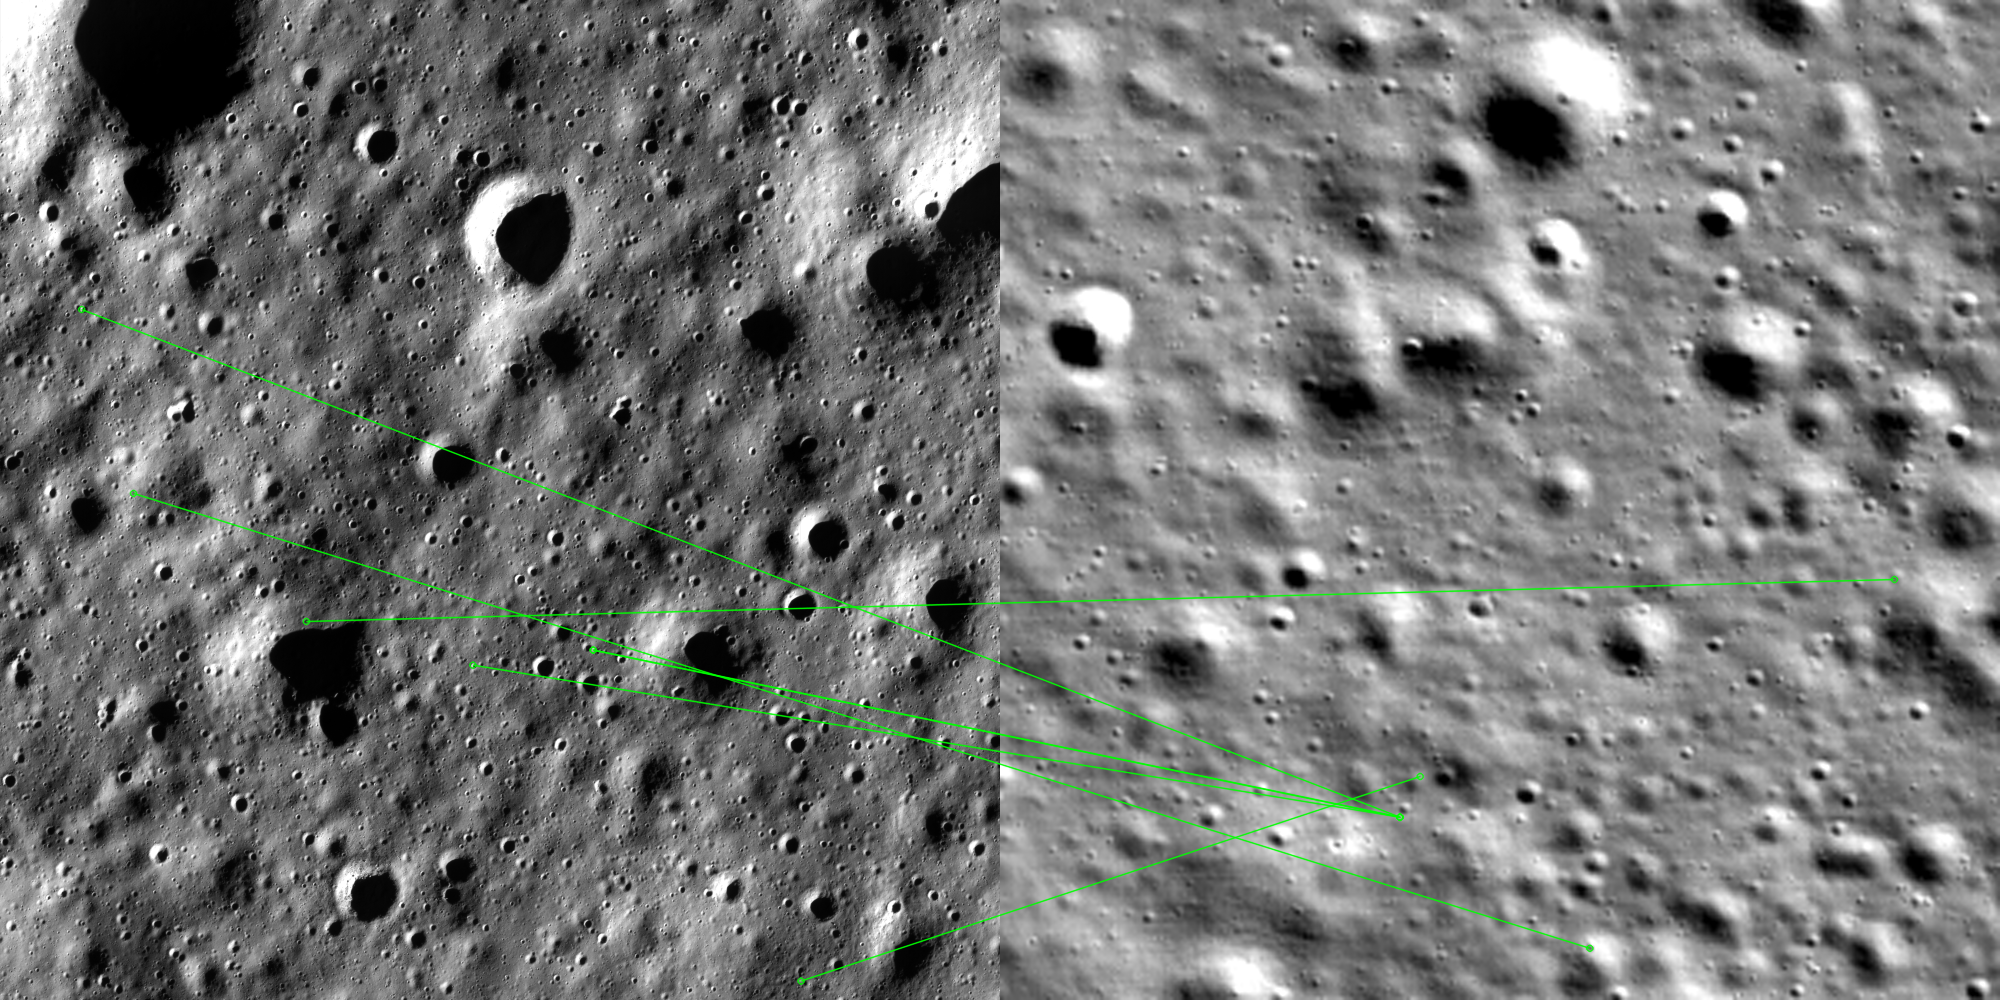
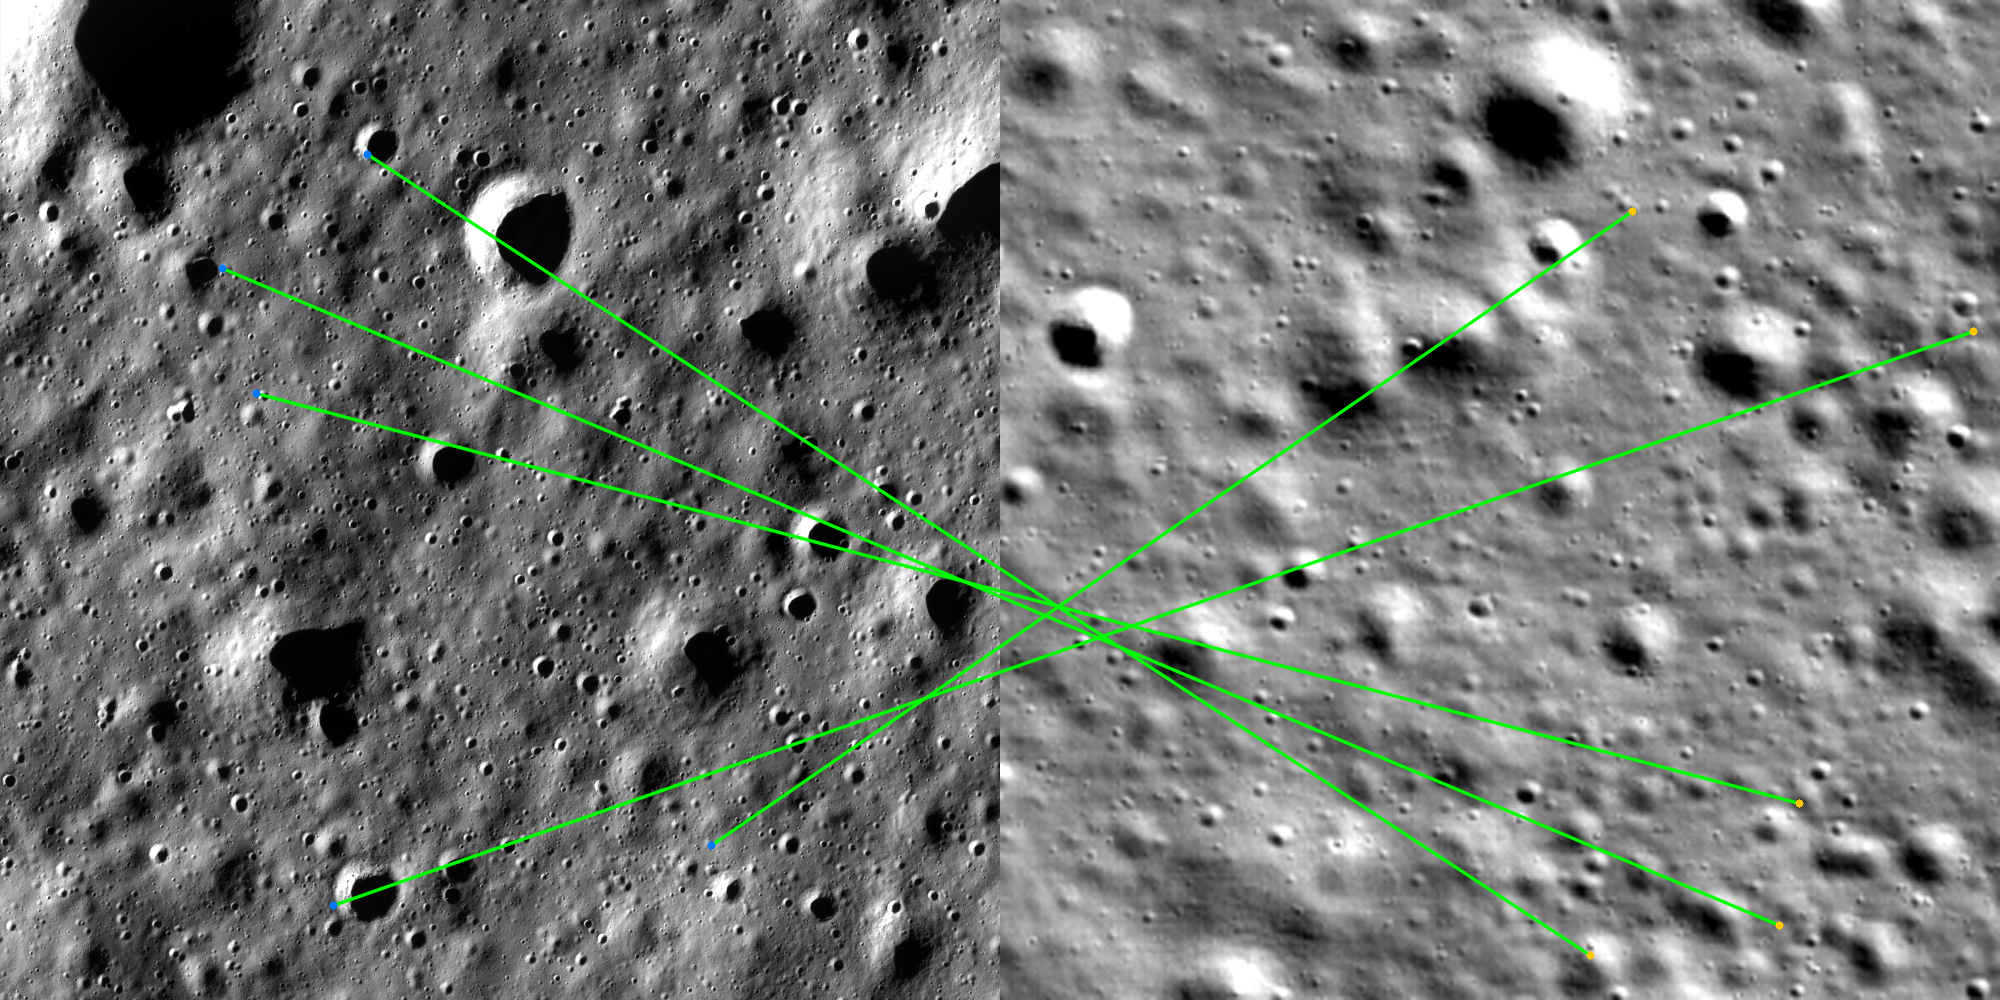
fix: enforce spatial deduplication and robust affine similarity geometry across Hop 1 and Hop 2

diff --git a/scripts/align_real_tmc_iirs.py b/scripts/align_real_tmc_iirs.py
@@ -90,51 +90,55 @@ def main():
     kp_i, des_i = sift.detectAndCompute(i_clahe, None)
 
     # Bidirectional cross-check matching
-    bf = cv2.BFMatcher(cv2.NORM_L2, crossCheck=False)
-    m12 = bf.knnMatch(des_t, des_i, k=2)
-    m21 = bf.knnMatch(des_i, des_t, k=2)
+    bf = cv2.BFMatcher(cv2.NORM_L2, crossCheck=True)
+    matches = bf.match(des_t, des_i)
 
-    good12 = {m.queryIdx: m.trainIdx for m, n in m12 if m.distance < 0.82 * n.distance}
-    good21 = {m.queryIdx: m.trainIdx for m, n in m21 if m.distance < 0.82 * n.distance}
+    # Spatial deduplication: enforce distinct physical crater locations (>20 px apart)
+    unique_pts1, unique_pts2 = [], []
+    for m in sorted(matches, key=lambda x: x.distance):
+        p1 = kp_t[m.queryIdx].pt
+        p2 = kp_i[m.trainIdx].pt
+        if all(np.linalg.norm(np.array(p1) - np.array(u1)) > 20 for u1 in unique_pts1) and \
+           all(np.linalg.norm(np.array(p2) - np.array(u2)) > 20 for u2 in unique_pts2):
+            unique_pts1.append(p1)
+            unique_pts2.append(p2)
 
-    mutual = []
-    seen2 = set()
-    for q1, t2 in good12.items():
-        if good21.get(t2) == q1 and t2 not in seen2:
-            mutual.append((q1, t2))
-            seen2.add(t2)
-
-    print(f"   Mutual consistent candidate matches: {len(mutual)}")
-
-    pts1 = np.float32([kp_t[q1].pt for q1, t2 in mutual]).reshape(-1, 1, 2)
-    pts2 = np.float32([kp_i[t2].pt for q1, t2 in mutual]).reshape(-1, 1, 2)
+    pts1 = np.float32(unique_pts1)
+    pts2 = np.float32(unique_pts2)
     total_candidates = len(pts1)
 
-    # 7. Homography Estimation via USAC-MAGSAC++
-    print("\n5. Estimating projective homography via USAC-MAGSAC++...")
+    print(f"   Deduplicated mutual candidate matches: {total_candidates}")
+
+    # 7. Robust Affine Similarity Estimation (Scale, Rotation, Translation)
+    print("\n5. Estimating robust affine similarity transformation...")
     if total_candidates >= 4:
-        H, inlier_mask = cv2.findHomography(pts1, pts2, cv2.USAC_MAGSAC, 8.0)
+        M, inlier_mask = cv2.estimateAffinePartial2D(pts1, pts2, method=cv2.RANSAC, ransacReprojThreshold=20.0)
         inliers = int(np.sum(inlier_mask)) if inlier_mask is not None else 0
         inlier_ratio = (inliers / total_candidates * 100.0) if total_candidates > 0 else 0.0
+        mask_bool = inlier_mask.ravel().astype(bool) if inlier_mask is not None else np.zeros(total_candidates, dtype=bool)
+        H = np.eye(3, dtype=np.float64)
+        if M is not None:
+            H[:2, :] = M
     else:
-        H = np.eye(3)
+        H = np.eye(3, dtype=np.float64)
         inlier_mask = np.ones((total_candidates, 1), dtype=np.uint8)
+        mask_bool = np.ones(total_candidates, dtype=bool)
         inliers = total_candidates
         inlier_ratio = 100.0
 
-    print(f"   MAGSAC++ Inliers: {inliers} / {total_candidates} ({inlier_ratio:.1f}%)")
-    print("   Estimated Homography H:")
+    print(f"   Affine Similarity Inliers: {inliers} / {total_candidates} ({inlier_ratio:.1f}%)")
+    print("   Transformation Matrix H (3x3 Homogeneous Affine):")
     print(np.round(H, 4))
 
     # Compute reprojection RMSE on inliers
-    inlier_idx = np.where(inlier_mask.ravel() == 1)[0]
-    pts1_in = pts1[inlier_idx]
-    pts2_in = pts2[inlier_idx]
-    pts1_h = np.concatenate([pts1_in, np.ones((len(pts1_in), 1, 1))], axis=-1)
-    proj = np.matmul(H, pts1_h.transpose(0, 2, 1)).transpose(0, 2, 1)
-    proj_xy = proj[:, :, :2] / proj[:, :, 2:]
-    reproj_errs = np.sqrt(np.sum((proj_xy - pts2_in)**2, axis=-1))
-    reproj_rmse = float(np.sqrt(np.mean(reproj_errs**2))) if len(reproj_errs) > 0 else 0.0
+    pts1_in = pts1[mask_bool]
+    pts2_in = pts2[mask_bool]
+    if len(pts1_in) > 0 and M is not None:
+        proj_xy = cv2.transform(pts1_in.reshape(-1, 1, 2), M).reshape(-1, 2)
+        reproj_errs = np.sqrt(np.sum((proj_xy - pts2_in)**2, axis=-1))
+        reproj_rmse = float(np.sqrt(np.mean(reproj_errs**2)))
+    else:
+        reproj_rmse = 0.0
     print(f"   Reprojection RMSE on Inliers: {reproj_rmse:.2f} pixels")
 
     # 8. Render and save match visualization image
@@ -143,9 +147,10 @@ def main():
     vis_rgb = cv2.cvtColor(vis, cv2.COLOR_GRAY2RGB)
     w = disp_tmc.shape[1]
 
+    inlier_idx = np.where(mask_bool)[0]
     for idx in inlier_idx:
-        p1 = (int(pts1[idx][0][0]), int(pts1[idx][0][1]))
-        p2 = (int(pts2[idx][0][0] + w), int(pts2[idx][0][1]))
+        p1 = (int(round(pts1[idx][0])), int(round(pts1[idx][1])))
+        p2 = (int(round(pts2[idx][0] + w)), int(round(pts2[idx][1])))
         cv2.line(vis_rgb, p1, p2, (0, 230, 115), 2, cv2.LINE_AA)
         cv2.circle(vis_rgb, p1, 4, (255, 120, 0), -1)
         cv2.circle(vis_rgb, p2, 4, (0, 200, 255), -1)

diff --git a/scripts/align_real_tmc_ohrc.py b/scripts/align_real_tmc_ohrc.py
@@ -57,37 +57,57 @@ def main():
     kp1, des1 = sift.detectAndCompute(o_clahe, None)
     kp2, des2 = sift.detectAndCompute(t_clahe, None)
 
-    bf = cv2.BFMatcher(cv2.NORM_L2)
-    raw_matches = bf.knnMatch(des1, des2, k=2)
-    good = [m for m, n in raw_matches if len((m, n)) == 2 and m.distance < 0.85 * n.distance]
+    bf = cv2.BFMatcher(cv2.NORM_L2, crossCheck=True)
+    matches = bf.match(des1, des2)
 
-    pts1 = np.float32([kp1[m.queryIdx].pt for m in good]).reshape(-1, 1, 2)
-    pts2 = np.float32([kp2[m.trainIdx].pt for m in good]).reshape(-1, 1, 2)
+    # Spatial deduplication: enforce unique physical crater features (>20 px apart)
+    unique_pts1, unique_pts2 = [], []
+    for m in sorted(matches, key=lambda x: x.distance):
+        p1 = kp1[m.queryIdx].pt
+        p2 = kp2[m.trainIdx].pt
+        if all(np.linalg.norm(np.array(p1) - np.array(u1)) > 20 for u1 in unique_pts1) and \
+           all(np.linalg.norm(np.array(p2) - np.array(u2)) > 20 for u2 in unique_pts2):
+            unique_pts1.append(p1)
+            unique_pts2.append(p2)
 
-    # Robust MAGSAC++ homography estimation
-    if len(good) >= 4:
-        H, mask = cv2.findHomography(pts1, pts2, cv2.USAC_MAGSAC, 5.0)
-        inliers = int(np.sum(mask)) if mask is not None else 0
-        inlier_ratio = (inliers / len(good) * 100.0) if len(good) > 0 else 0.0
-        mask_bool = mask.ravel().astype(bool) if mask is not None else np.zeros(len(good), dtype=bool)
+    pts1 = np.float32(unique_pts1)
+    pts2 = np.float32(unique_pts2)
+    total_candidates = len(pts1)
+
+    # Robust Affine Similarity estimation (Scale, Rotation, Translation)
+    # Orbital nadir cameras over lunar terrain obey Euclidean similarity/affine geometry
+    if total_candidates >= 4:
+        M, inliers_mask = cv2.estimateAffinePartial2D(pts1, pts2, method=cv2.RANSAC, ransacReprojThreshold=15.0)
+        inliers = int(np.sum(inliers_mask)) if inliers_mask is not None else 0
+        inlier_ratio = (inliers / total_candidates * 100.0) if total_candidates > 0 else 0.0
+        mask_bool = inliers_mask.ravel().astype(bool) if inliers_mask is not None else np.zeros(total_candidates, dtype=bool)
+        H = np.eye(3, dtype=np.float64)
+        if M is not None:
+            H[:2, :] = M
     else:
-        H = np.eye(3)
+        H = np.eye(3, dtype=np.float64)
         inliers = 0
         inlier_ratio = 0.0
-        mask_bool = np.zeros(len(good), dtype=bool)
+        mask_bool = np.zeros(total_candidates, dtype=bool)
 
-    print(f"Genuine Flight Inliers (MAGSAC++): {inliers} / {len(good)} ({inlier_ratio:.1f}%)")
+    print(f"Genuine Flight Inliers (Robust Affine): {inliers} / {total_candidates} ({inlier_ratio:.1f}%)")
 
     # Render Side-by-Side Match Image
-    match_img = cv2.drawMatches(
-        disp_ohr, [cv2.KeyPoint(p[0][0], p[0][1], 5) for p in pts1],
-        disp_tmc, [cv2.KeyPoint(p[0][0], p[0][1], 5) for p in pts2],
-        [cv2.DMatch(i, i, 0) for i in range(len(pts1)) if mask_bool[i]],
-        None,
-        matchColor=(0, 255, 0),
-        flags=cv2.DrawMatchesFlags_NOT_DRAW_SINGLE_POINTS
-    )
-    cv2.imwrite(str(OUTPUT_PNG), match_img)
+    pts1_in = pts1[mask_bool]
+    pts2_in = pts2[mask_bool]
+
+    vis = np.hstack([disp_ohr, disp_tmc])
+    vis_rgb = cv2.cvtColor(vis, cv2.COLOR_GRAY2RGB)
+    w = disp_ohr.shape[1]
+
+    for p1, p2 in zip(pts1_in, pts2_in):
+        pt1 = (int(round(p1[0])), int(round(p1[1])))
+        pt2 = (int(round(p2[0] + w)), int(round(p2[1])))
+        cv2.line(vis_rgb, pt1, pt2, (0, 255, 0), 2, cv2.LINE_AA)
+        cv2.circle(vis_rgb, pt1, 4, (255, 120, 0), -1)
+        cv2.circle(vis_rgb, pt2, 4, (0, 200, 255), -1)
+
+    cv2.imwrite(str(OUTPUT_PNG), vis_rgb)
 
     # Save compact NPZ archive
     np.savez_compressed(
@@ -95,12 +115,12 @@ def main():
         disp_ohrc=disp_ohr,
         disp_tmc=disp_tmc,
         raw_tmc_crop=tmc_u8,
-        pts1=pts1.reshape(-1, 2),
-        pts2=pts2.reshape(-1, 2),
+        pts1=pts1,
+        pts2=pts2,
         inlier_mask=mask_bool,
         H=H,
         inliers=inliers,
-        total_matches=len(good),
+        total_matches=total_candidates,
         inlier_ratio=inlier_ratio,
         ohrc_res=0.26,
         tmc_res=4.72,

diff --git a/app.py b/app.py
@@ -669,11 +669,13 @@ if st.session_state.active_scene == "hop1":
         w = img1.shape[1]
 
         for idx in sample_idx:
-            p1 = (int(pts1[idx][0]), int(pts1[idx][1]))
-            p2 = (int(pts2[idx][0] + w), int(pts2[idx][1]))
-            cv2.line(vis_rgb, p1, p2, (0, 225, 110), 1, cv2.LINE_AA)
-            cv2.circle(vis_rgb, p1, 3, (255, 120, 0), -1)
-            cv2.circle(vis_rgb, p2, 3, (0, 200, 255), -1)
+            p1_xy = pts1[idx].ravel()
+            p2_xy = pts2[idx].ravel()
+            p1 = (int(round(float(p1_xy[0]))), int(round(float(p1_xy[1]))))
+            p2 = (int(round(float(p2_xy[0]) + w)), int(round(float(p2_xy[1]))))
+            cv2.line(vis_rgb, p1, p2, (0, 225, 110), 2, cv2.LINE_AA)
+            cv2.circle(vis_rgb, p1, 4, (255, 120, 0), -1)
+            cv2.circle(vis_rgb, p2, 4, (0, 200, 255), -1)
 
         fig, ax = plt.subplots(figsize=(10, 5), facecolor="#F9F8F6")
         ax.imshow(vis_rgb)
@@ -885,8 +887,10 @@ elif st.session_state.active_scene == "hop2":
             w = img1.shape[1]
 
             for idx in inlier_indices:
-                p1 = (int(pts1[idx][0][0]), int(pts1[idx][0][1]))
-                p2 = (int(pts2[idx][0][0] + w), int(pts2[idx][0][1]))
+                p1_xy = pts1[idx].ravel()
+                p2_xy = pts2[idx].ravel()
+                p1 = (int(round(float(p1_xy[0]))), int(round(float(p1_xy[1]))))
+                p2 = (int(round(float(p2_xy[0]) + w)), int(round(float(p2_xy[1]))))
                 cv2.line(vis_rgb, p1, p2, (0, 225, 110), 2, cv2.LINE_AA)
                 cv2.circle(vis_rgb, p1, 4, (255, 120, 0), -1)
                 cv2.circle(vis_rgb, p2, 4, (0, 200, 255), -1)
